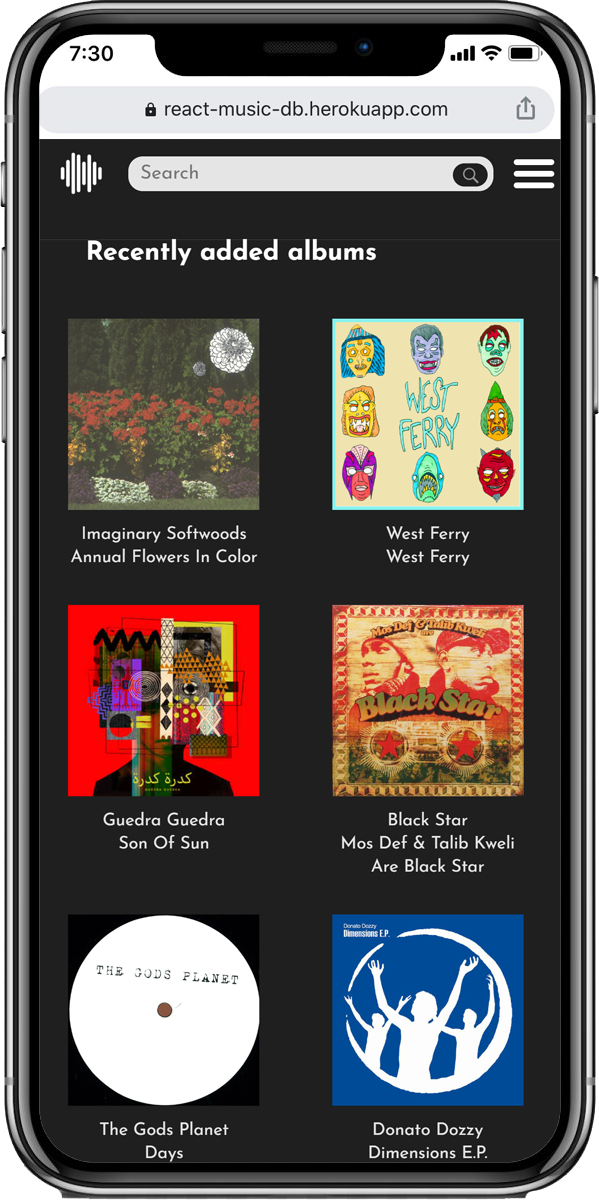
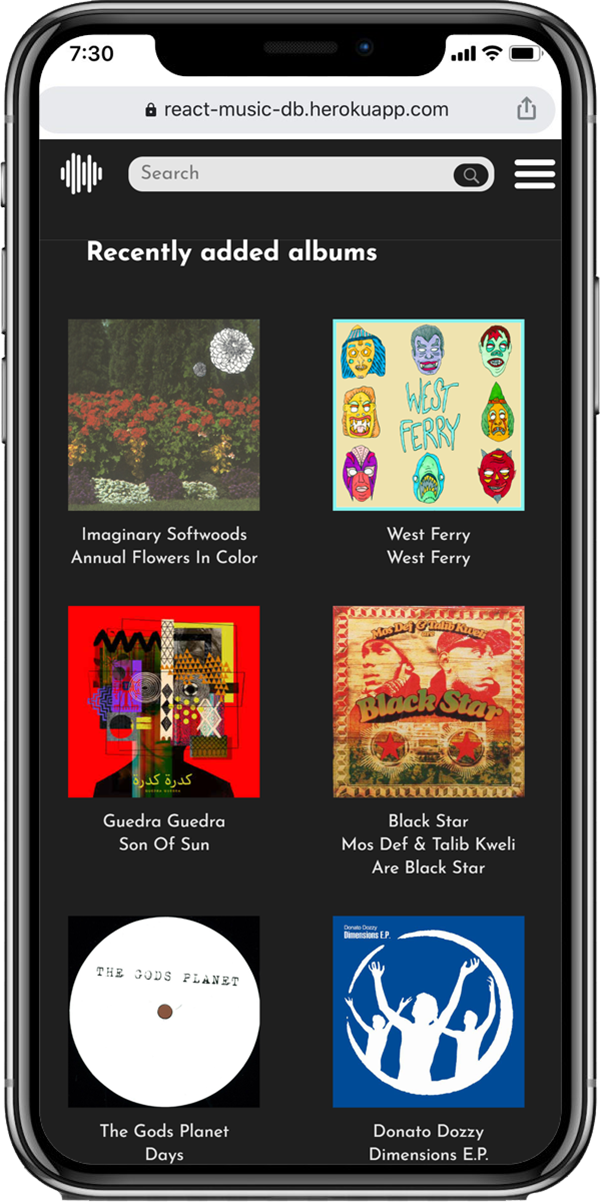
responsive images

diff --git a/projects/musicdb.html b/projects/musicdb.html
@@ -57,14 +57,13 @@
 
         <div class="mdb-header__right">
           <img
-            src="../img/musicdb-mockup-1.png"
             srcset="
               ../img/musicdb-mockup-1-s.png  200w,
               ../img/musicdb-mockup-1-m.png  300w,
               ../img/musicdb-mockup-1-l.png  400w,
               ../img/musicdb-mockup-1-xl.png 600w
             "
-            sizes="(min-width: 2080px) 553px, (min-width: 620px) calc(26.11vw + 13px), 80vw"
+            sizes="(min-width: 1200px) 30vw, 90vw"
             alt="iphone mockup"
             class="mdb-header__img"
           />
@@ -74,7 +73,11 @@
       <div class="mdb-section mdb-section--intro">
         <div class="mdb-section__left mdb-section__left--intro">
           <img
-            src="../img/musicdb-mockup-2.png"
+            srcset="
+              ../img/musicdb-mockup-2-s.png 300w,
+              ../img/musicdb-mockup-2.png   600w
+            "
+            sizes="(min-width: 900px) 33vw, 0vw"
             alt="iphone mockup"
             class="intro-img"
           />
@@ -115,7 +118,12 @@
       </div>
       <div class="mdb-section__right mdb-section__right--design">
         <img
-          src="../img/musicdb/signup.png"
+          srcset="
+            ../img/musicdb/signup-s.png 300w,
+            ../img/musicdb/signup-m.png 400w,
+
+          "
+          sizes="(max-width: 900px) 80vw, 30vw"
           alt="signup page"
           class="design-img"
         />

diff --git a/index.html b/index.html
@@ -47,12 +47,14 @@
             >
             <img
               class="projects__img projects__img--musicdb-1"
-              src="img/musicdb-mockup-1.png"
+              src="img/musicdb-mockup-1-s.png"
+              srcset="img/musicdb-mockup-1.png 2x"
               alt="iphone mockup"
             />
             <img
               class="projects__img projects__img--musicdb-2"
-              src="img/musicdb-mockup-2.png"
+              src="img/musicdb-mockup-2-s.png"
+              srcset="img/musicdb-mockup-2.png 2x"
               alt="iphone mockup"
             />
             <a href="#" class="projects__link projects__link--portfolio">
@@ -65,7 +67,8 @@
             >
             <img
               class="projects__img projects__img--recipe-1"
-              src="img/recipe.jpg"
+              src="img/recipe-s.jpg"
+              srcset="img/recipe-highres.jpg 2x"
               alt="cooking"
             />
             <!-- <img
